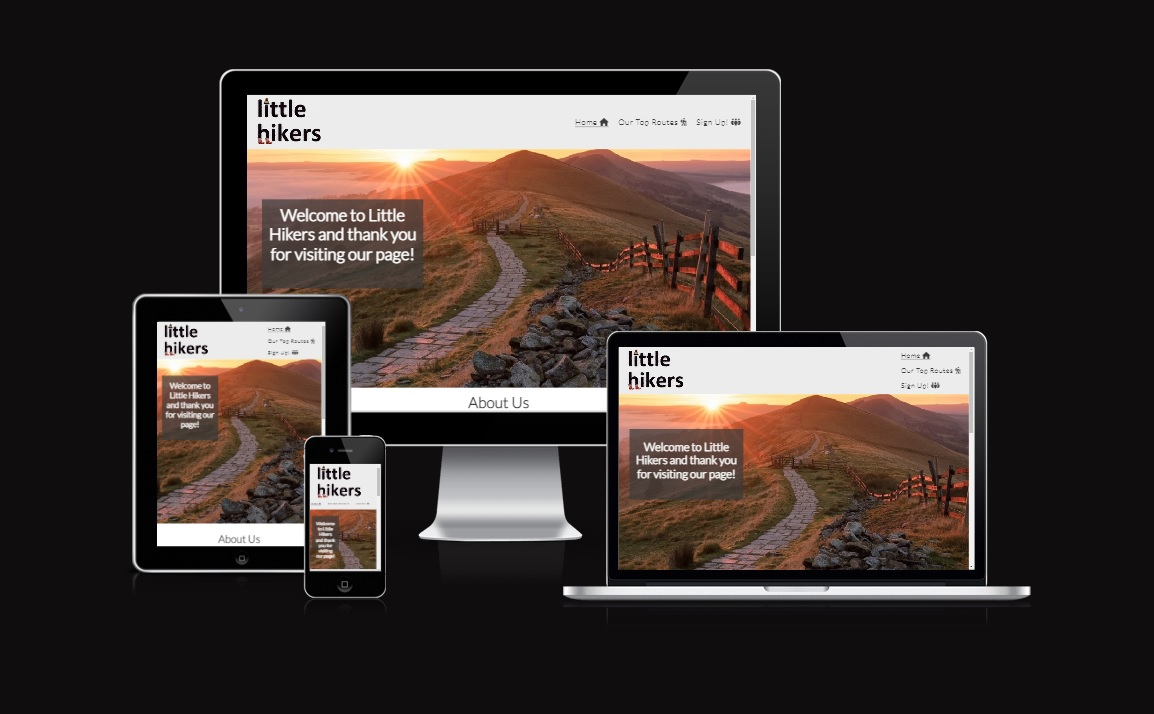
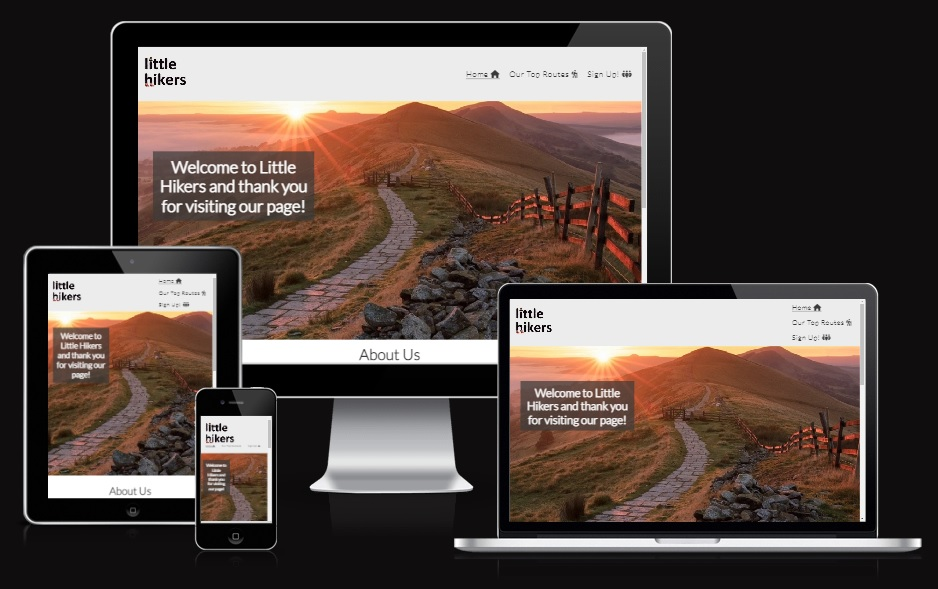
Restyled media queries to better fit standard screen sizes (got rid of 320px and changed that code to fir max-width 600px - each section moved up one size like this) and added comments to code to match up HTML and CSS

diff --git a/assets/css/style.css b/assets/css/style.css
@@ -298,7 +298,7 @@ main img {
     color: #3a3a3a;
 }
 
-/* Footer */
+ /* Footer and Social Media Links */
 
 footer {
     height: 20px;
@@ -337,33 +337,7 @@ footer {
         display: flex;
         flex-direction: column-reverse;
         line-height: 50px;
-    }
-
-    #menu li {
-        margin-top: 5px;
-    }
-
-    #mam-tor h2 {
-        font-size: 255%;
-    }
-
-   #about {
-        padding: 2rem;
-   }
-
-   .gallery {
-        grid-template-columns: 1fr 1fr 1fr;
-   }
-}
-
-@media screen and (max-width: 768px) {
-    #menu {
-        float: right;
-        letter-spacing: 2px;
-        top: 0;
-        display: flex;
-        flex-direction: column-reverse;
-        line-height: 50px;
+        margin-right: 3%;
     }
 
     #menu li {
@@ -374,25 +348,29 @@ footer {
         font-size: 225%;
     }
     
-       #about {
+    #about {
         padding: 2rem;
     }
 
-       .description {
+    .description {
         font-size: smaller;
     }
     
-       .gallery {
+    .gallery {
         grid-template-columns: 1fr 1fr 1fr;
     }
 
-       .gallery img {
+    .gallery img {
         height: 150px;
         width: 150px;
     }
+
+    .signup-form {
+        max-width: 40%;
+    }
 }
 
-@media screen and (max-width: 600px) {
+@media screen and (max-width: 768px) {
     #menu {
         float: right;
         letter-spacing: 2px;
@@ -432,21 +410,20 @@ footer {
     }
 }
 
-@media screen and (max-width: 320px) {
+@media screen and (max-width: 600px) {
     #menu {
         letter-spacing: 1.5px;
         top: 0;
         display: inline-block;
         line-height: 50px;
-        padding-top: 35%;
-        font-size: 0.6rem;
+        padding-top: 29%;
+        font-size: 90%;
         width: 100%;
     }
 
     #menu li {
         float: right;
         margin-right: 30px;
-        font-size: 0.6rem;
         font-weight: 1000;
         letter-spacing: 1px;
     }
@@ -494,7 +471,7 @@ footer {
     
     .buffer4 {
         height: 400px;
-        width: 90%;
+        width: 82%;
         padding-left: 10%;
     }
 

diff --git a/index.html b/index.html
@@ -11,7 +11,8 @@
     <title>Little Hikers</title>
 </head>
 <body>
-    <header>
+    <!--Logo and Menu-->
+    <header> 
         <nav>
             <ul id="menu">
                 <li><a href="form.html">Sign Up! <i class="fa-solid fa-people-group"></i></a></li>
@@ -20,7 +21,8 @@
             </ul>
         </nav>
     </header>
-    <section id="mam-tor">
+    <!--About Us-->
+    <section id="mam-tor"> 
         <h2>Welcome to Little Hikers and thank you for visiting our page!</h2>
     </section>
     <section>
@@ -44,7 +46,8 @@
             </p>
         </div>
     </section>
-    <footer>
+    <!--Footer and Social Media Links-->
+    <footer> 
         <ul class="social-networks">
             <li>
                 <a href="https://www.facebook.com/profile.php?id=100087251750816" target="_blank" rel="noopener" aria-label="Visit our Facebook page (opens in new tab)"><i class="fa-brands fa-facebook"></i></a>

diff --git a/form.html b/form.html
@@ -11,7 +11,8 @@
     <title>Little Hikers</title>
 </head>
 <body>
-    <header>
+    <!--Logo and Menu-->
+    <header> 
         <nav>
             <ul id="menu">
                 <li><a href="form.html" class="active">Sign Up! <i class="fa-solid fa-people-group"></i></a></li>
@@ -21,8 +22,9 @@
         </nav>
     </header>
     <div>
+        <!--Sign Up Form-->
         <section class="form">
-            <form method="POST" action="https://www.littlehikers.co.uk/signup" class="signup-form">
+            <form method="POST" action="https://formdump.codeinstitute.net/" class="signup-form">
                 <h2>Join us!</h2> 
                 
                 <label for="fname">First Name</label>
@@ -38,6 +40,7 @@
             </form>
         </section>
     </div>
+    <!--Footer and Social Media Links-->
     <footer>
         <ul class="social-networks">
             <li>

diff --git a/top-routes.html b/top-routes.html
@@ -11,6 +11,7 @@
     <title>Little Hikers</title>
 </head>
 <body>
+    <!--Logo and Menu-->
     <header>
         <nav>
             <ul id="menu">
@@ -20,6 +21,7 @@
             </ul>
         </nav>
     </header>
+     <!--Top Routes--> <!--code seen on w3schools.com-->
     <main>
         <section>
             <h1 class="title">
@@ -147,7 +149,7 @@
         </section>
         <div class="buffer3 buffer4"></div>
     </main>
-
+     <!--Footer and Social Media Links-->
     <footer>
         <ul class="social-networks">
             <li>
